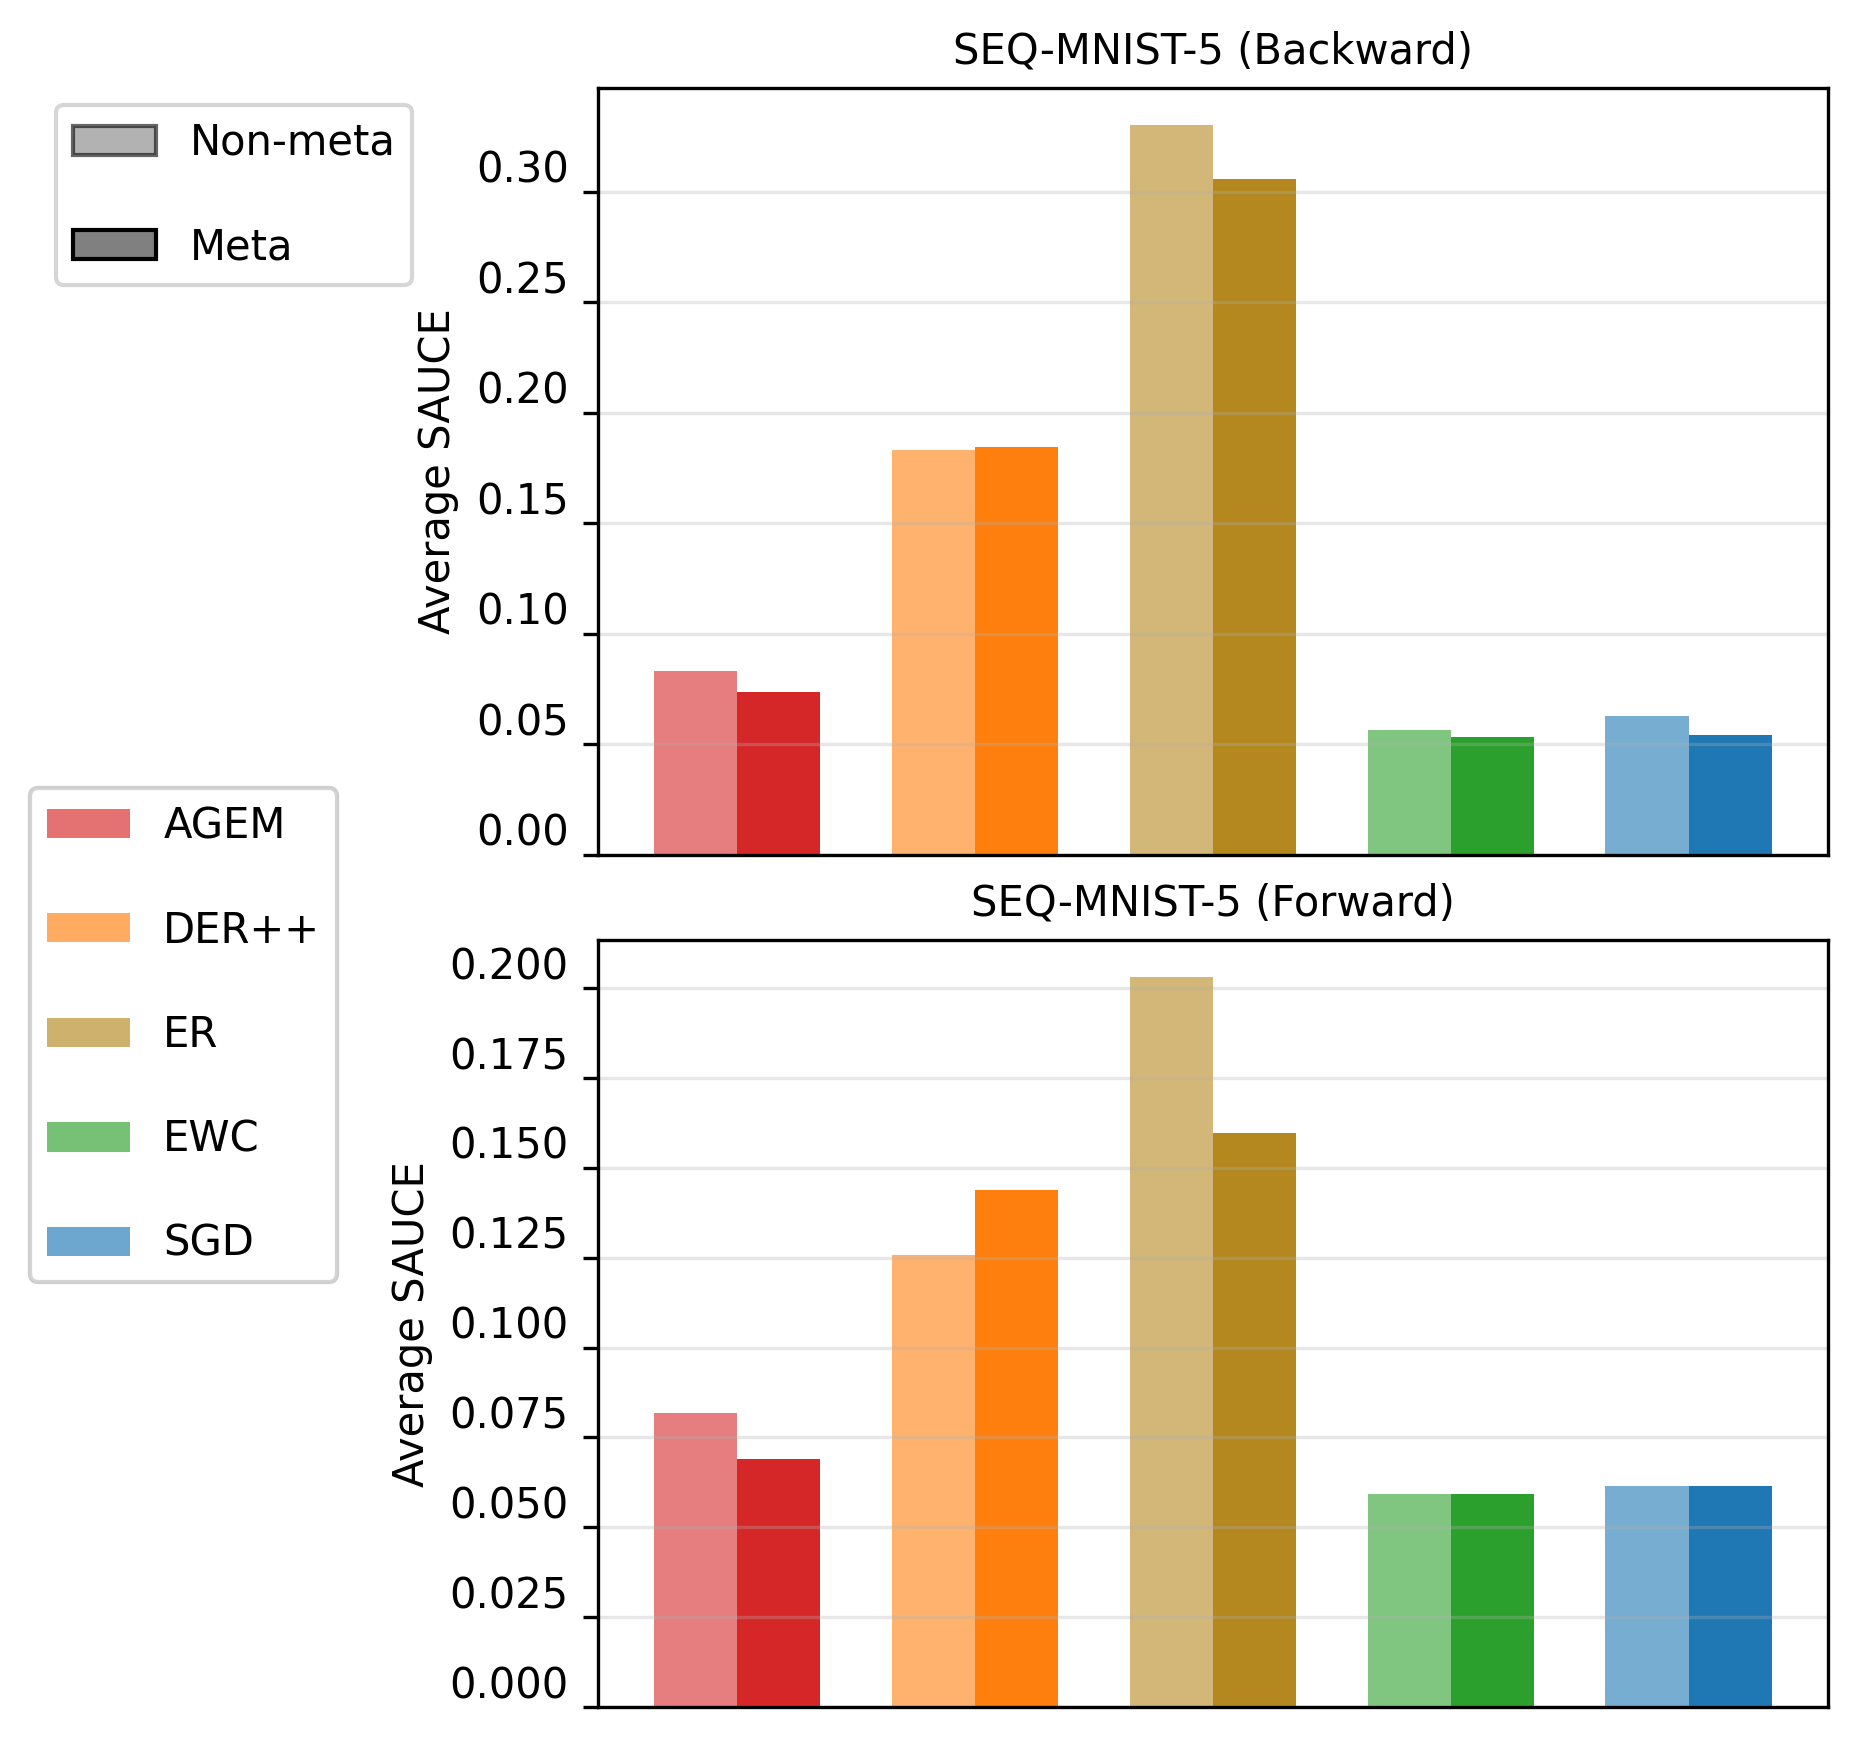
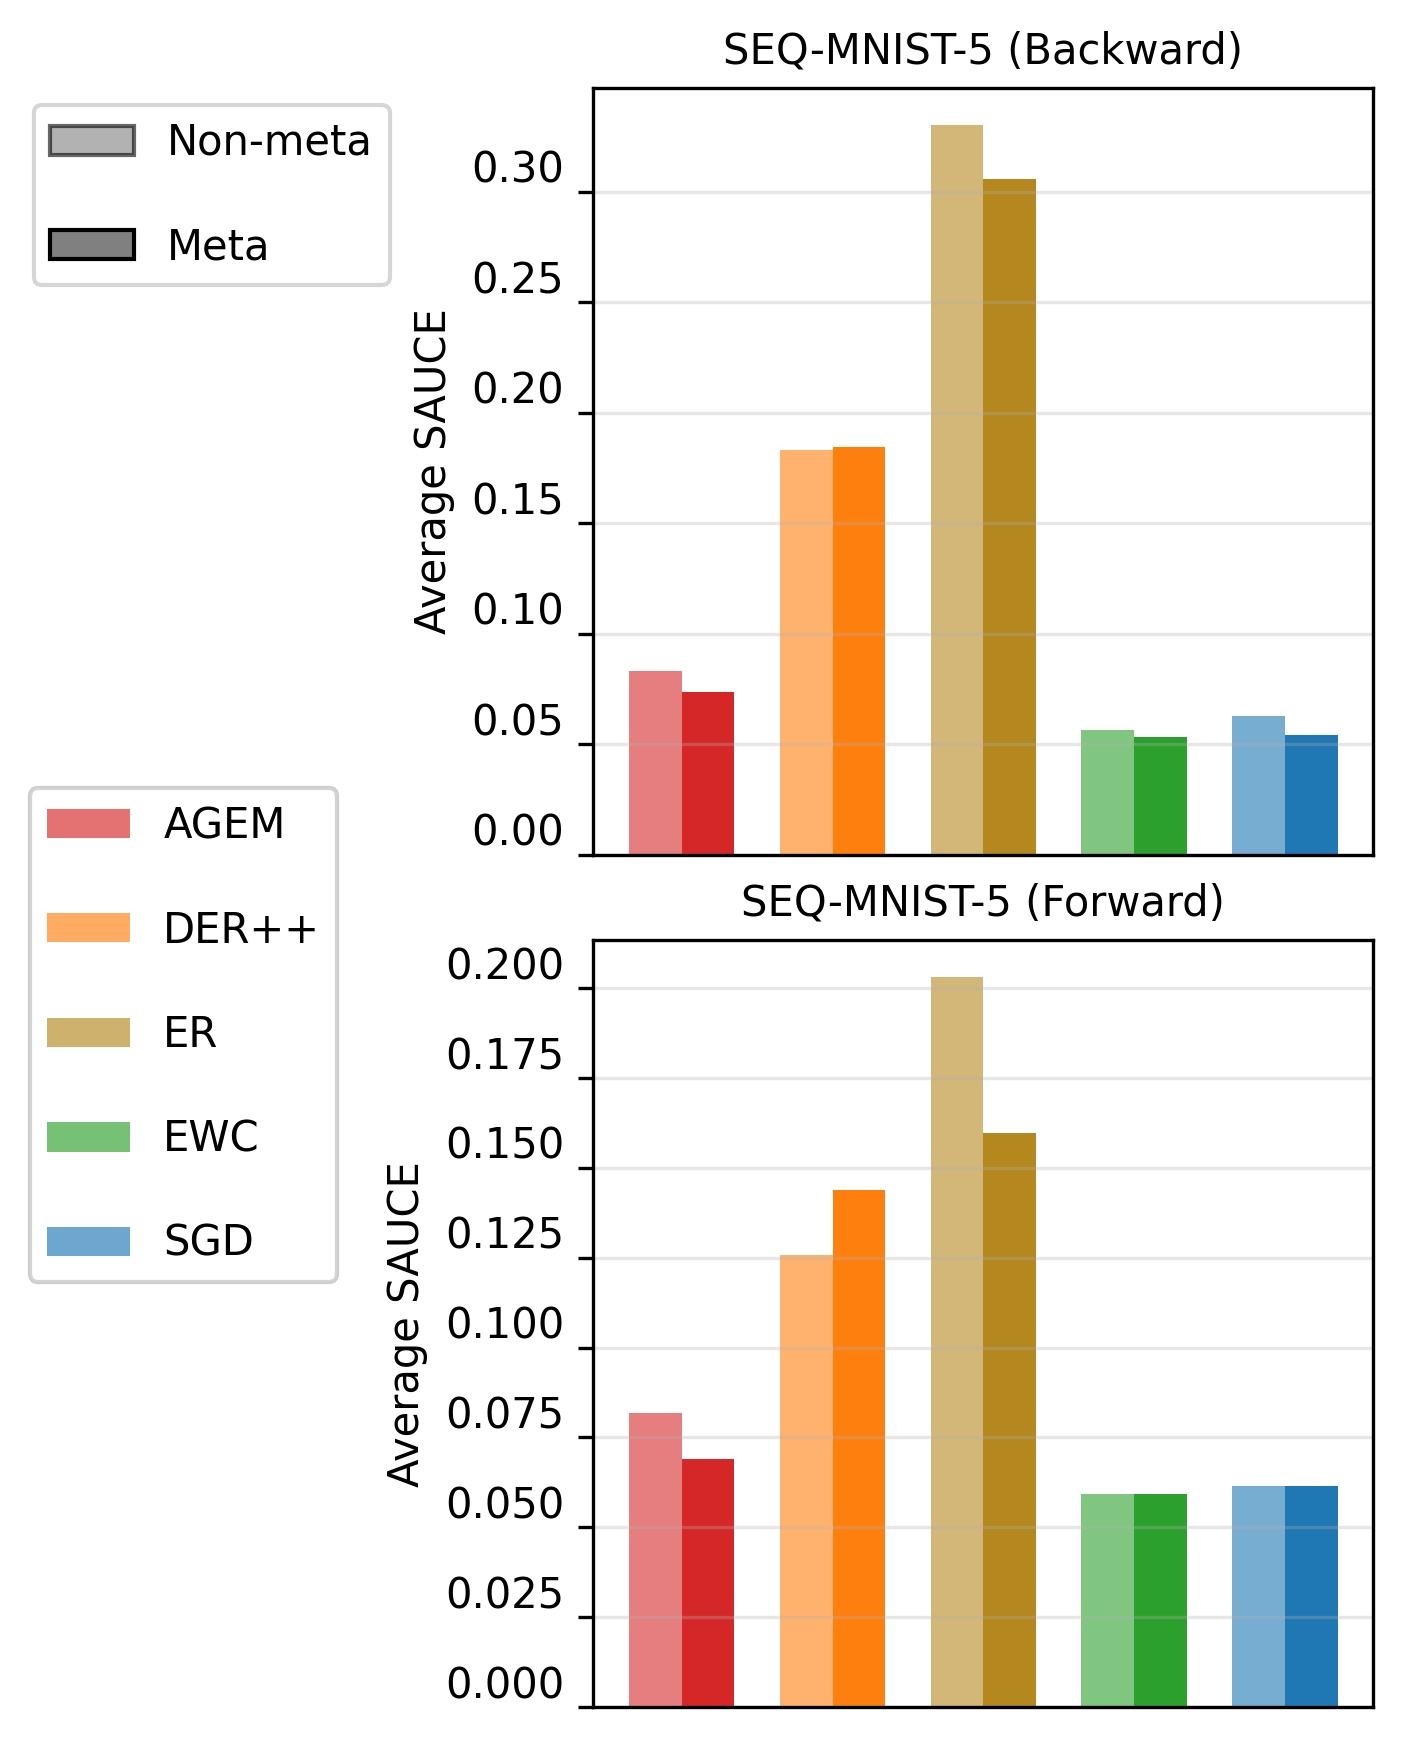
aspect ratio sauce plot

diff --git a/results_for_paper.py b/results_for_paper.py
@@ -1138,7 +1138,7 @@ def plot_sauce(
             plot_data = plot_data.sort_values('checkpoint_num')
             aggregated_sauce[direction][method] = plot_data['SAUCE'].mean()
 
-    fig_avg, axes_avg = plt.subplots(nrows, ncols, figsize=(3 * ncols, 7) if dataset != 'seq-mnist' else (5 * ncols, 7), squeeze=False)
+    fig_avg, axes_avg = plt.subplots(nrows, ncols, figsize=(3 * ncols, 7) if dataset != 'seq-mnist' else (3.5 * ncols, 7), squeeze=False)
     bar_width = 0.35
     group_gap = 0.3
 
